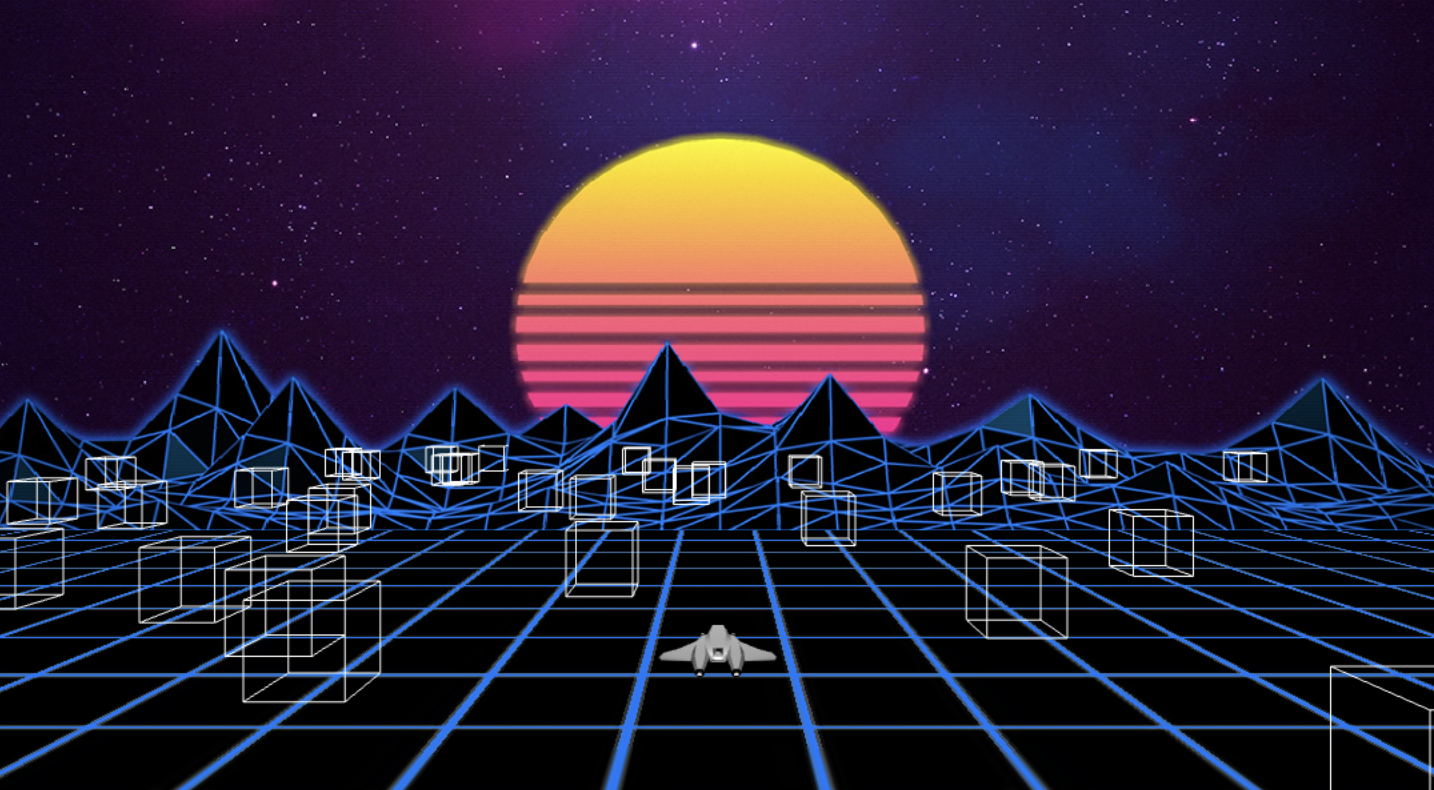
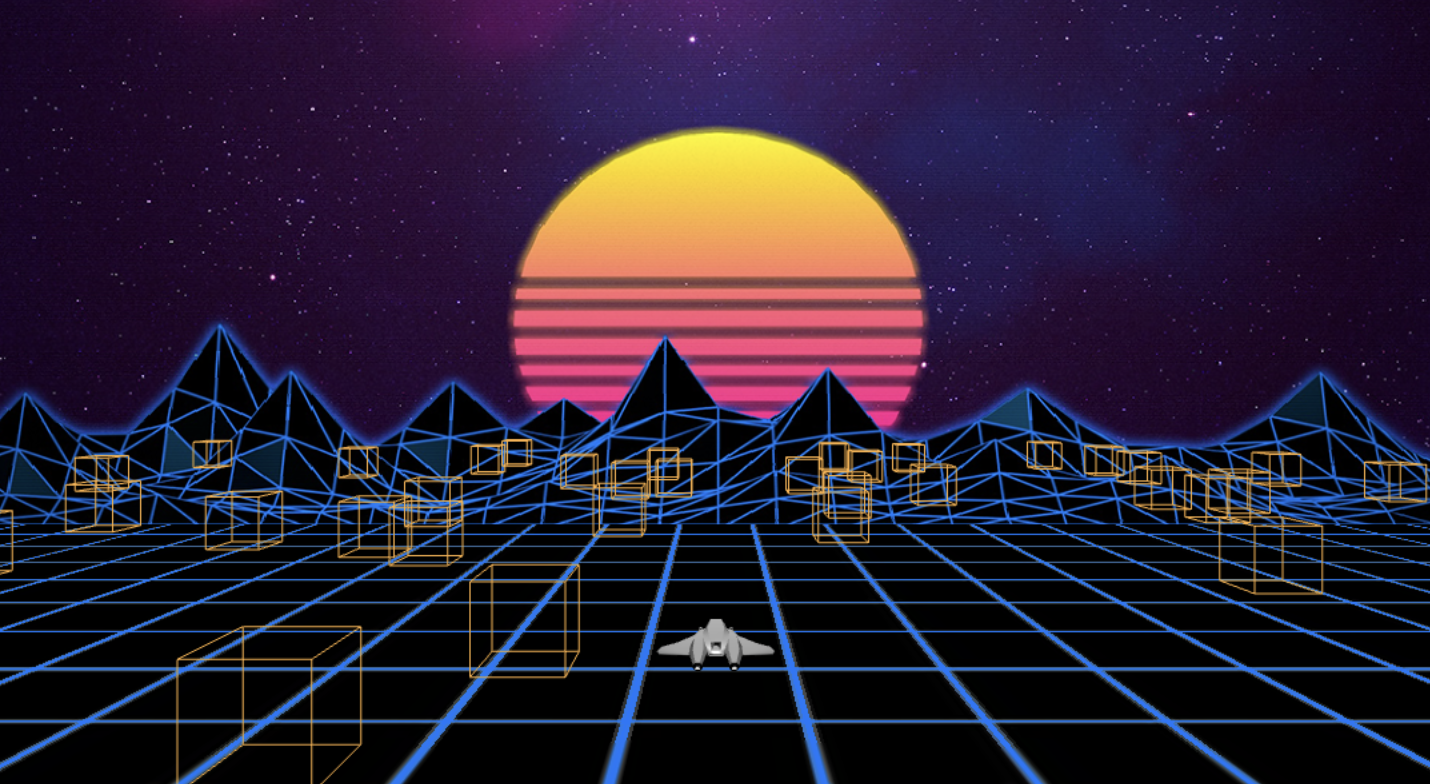
style fixes

diff --git a/cube-runner.js b/cube-runner.js
@@ -99,7 +99,7 @@ class Base_Scene extends Scene {
         '../assets/spaceship.obj'
       ),
       shield: new defs.Subdivision_Sphere(4),
-      outline: new Cube_Outline(hex_color('#ffffff')),
+      outline: new Cube_Outline(hex_color('#fdaf42')),
       green_outline: new Cube_Outline(hex_color('#00ff00')),
       floor: new Cube(),
       background: new defs.Grid_Patch(
@@ -225,7 +225,6 @@ export class CubeRunner extends Base_Scene {
       { name: 'Aneesh', score: 500 },
     ]
 
-
     this.hasShield = false; // Track if the player has collected a shield power-up
     this.shieldActive = false; // Track if the shield is currently active
     this.shield_duration = 2.5
@@ -286,49 +285,67 @@ export class CubeRunner extends Base_Scene {
 
     // Reset spawn timing
     this.lastSpawnTime = performance.now()
-
   }
 
   showHighScoreEntry() {
     const overlay = this.createOverlay();
 
     const title = document.createElement('h2');
-    title.textContent = 'Congratulations!';
+    title.textContent = 'CONGRATULATIONS!';
     overlay.modal.appendChild(title);
 
-    const scoreDisplay = document.createElement('p');
-    scoreDisplay.textContent = `You scored ${Math.round(this.current_score)} points! Enter your name:`;
+    const scoreDisplay = document.createElement('h3');
+    // scoreDisplay.fontSize = '18px';
+    scoreDisplay.textContent = `YOU SCORED ${Math.round(this.current_score)} POINTS! ENTER YOUR NAME:`;
     overlay.modal.appendChild(scoreDisplay);
 
     const nameInput = document.createElement('input');
     nameInput.type = 'text';
-    nameInput.placeholder = 'Your Name Here';
+    nameInput.placeholder = 'YOUR NAME HERE';
+    nameInput.style.fontFamily = 'Shapiro';
+    nameInput.style.fontSize = '18px';
+    nameInput.style.padding = '15px 15px'
+    nameInput.style.border = '3px solid black'
+    nameInput.style.borderRadius = '30px'
+    nameInput.style.width = '300px';
     overlay.modal.appendChild(nameInput);
 
+    const submitStyle = `padding: 5px 15px; font-size: 16px; margin: 5px; background-color: #333; color: white; border: 3px solid #333; border-radius: 5px;`;
+    const cancelStyle = `padding: 5px 15px; font-size: 16px; margin: 5px; color: #333; border: 3px solid #333; border-radius: 5px;`;
+    
+    // Create a new div to contain the buttons
+    const buttonsDiv = document.createElement('div');
+    buttonsDiv.style.paddingTop = '25px';
+    
     const submitButton = document.createElement('button');
-    submitButton.textContent = 'Submit';
+    submitButton.textContent = 'SUBMIT';
+    submitButton.setAttribute('style', submitStyle);
     submitButton.onclick = () => {
       const userName = nameInput.value.trim();
-      if(userName) {
+      if (userName) {
         // Assuming a method to save the score
         this.saveScore(userName, this.current_score);
         document.body.removeChild(overlay.container);
         this.showLeaderboard(); // Show the leaderboard after submitting
       }
     };
-    overlay.modal.appendChild(submitButton);
-
+    buttonsDiv.appendChild(submitButton); // Append submit button to the div
+    
     const cancelButton = document.createElement('button');
-    cancelButton.textContent = 'Cancel';
+    cancelButton.textContent = 'CANCEL';
+    cancelButton.setAttribute('style', cancelStyle);
     cancelButton.onclick = () => {
       document.body.removeChild(overlay.container);
     };
-    overlay.modal.appendChild(cancelButton);
+    buttonsDiv.appendChild(cancelButton); // Append cancel button to the div
+    
+    overlay.modal.appendChild(buttonsDiv); // Append the div containing buttons to the overlay modal
+    
 
     document.body.appendChild(overlay.container);
   }
 
-// Step 2: Display the Leaderboard
+  // Step 2: Display the Leaderboard
   showLeaderboard() {
     const overlay = this.createOverlay();
     const title = document.createElement('h2');
@@ -346,8 +363,10 @@ export class CubeRunner extends Base_Scene {
     });
     overlay.modal.appendChild(list);
 
+    const closeStyle = `padding: 5px 15px; font-size: 16px; margin: 5px; background-color: #333; color: white; border: 3px solid #333; border-radius: 5px;`;
     const closeButton = document.createElement('button');
     closeButton.textContent = 'Close';
+    closeButton.setAttribute('style', closeStyle);
     closeButton.onclick = () => {
       document.body.removeChild(overlay.container);
     };
@@ -356,7 +375,7 @@ export class CubeRunner extends Base_Scene {
     document.body.appendChild(overlay.container);
   }
 
-// Utility to create overlay and modal
+  // Utility to create overlay and modal
   createOverlay() {
     const container = document.createElement('div');
     container.style.position = 'fixed';
@@ -405,11 +424,16 @@ export class CubeRunner extends Base_Scene {
       // Create the container for the power-up display if it doesn't already exist
       this.powerUpContainer = document.createElement('div');
       this.powerUpContainer.style.position = 'absolute';
-      this.powerUpContainer.style.left = '240px'; // Position at the bottom-left corner
-      this.powerUpContainer.style.bottom = '190px';
+      this.powerUpContainer.style.left = '20px'; // Position at the bottom-left corner
+      this.powerUpContainer.style.top = '475px';
       this.powerUpContainer.style.width = '50px'; // Adjust size as needed
       this.powerUpContainer.style.height = '50px';
-      document.body.appendChild(this.powerUpContainer);
+      // document.body.appendChild(this.powerUpContainer);
+
+      const canvasElement =
+        document.querySelector('#main-canvas') // Select the main canvas element
+      canvasElement.style.position = 'relative' // Ensure the canvas is positioned to anchor the score
+      canvasElement.appendChild(this.powerUpContainer)
 
       // Create the image element for the shield icon
       this.shieldIcon = document.createElement('img');
@@ -420,17 +444,17 @@ export class CubeRunner extends Base_Scene {
       this.powerUpContainer.appendChild(this.shieldIcon);
 
       // Create the text element for the powerup indication
-      this.powerUpText = document.createElement('div');
-      this.powerUpText.innerHTML = 'Activate   Shield'; // Use innerHTML to include HTML content
-      this.powerUpText.style.position = 'absolute';
-      this.powerUpText.style.bottom = '50px'; // Adjust based on your layout
-      this.powerUpText.style.left = '15px'; // Adjust based on your layout
+      // this.powerUpText = document.createElement('div');
+      // this.powerUpText.innerHTML = 'Activate   Shield'; // Use innerHTML to include HTML content
+      // this.powerUpText.style.position = 'absolute';
+      // this.powerUpText.style.bottom = '50px'; // Adjust based on your layout
+      // this.powerUpText.style.left = '15px'; // Adjust based on your layout
 
-      this.powerUpText.style.width = '100%';
-      this.powerUpText.style.textAlign = 'center';
-      this.powerUpText.style.color = 'red'; // Adjust based on your theme
-      this.powerUpText.style.display = 'none'; // Initially hidden
-      this.powerUpContainer.appendChild(this.powerUpText);
+      // this.powerUpText.style.width = '100%';
+      // this.powerUpText.style.textAlign = 'center';
+      // this.powerUpText.style.color = 'red'; // Adjust based on your theme
+      // this.powerUpText.style.display = 'none'; // Initially hidden
+      // this.powerUpContainer.appendChild(this.powerUpText);
     }
 
     // Ensure the power-up display responds to game state changes
@@ -441,7 +465,7 @@ export class CubeRunner extends Base_Scene {
       // Only show the power-up display if the game is running and the player has a shield
       this.powerUpContainer.style.display = this.hasShield ? 'block' : 'none';
       this.shieldIcon.style.display = this.hasShield ? 'block' : 'none';
-      this.powerUpText.style.display = this.hasShield ? 'block' : 'none';
+      // this.powerUpText.style.display = this.hasShield ? 'block' : 'none';
     }
 
   }
@@ -700,6 +724,15 @@ export class CubeRunner extends Base_Scene {
       }
     )
 
+    this.key_triggered_button("Activate Shield", [" "], () => {
+      if (this.hasShield && !this.shieldActive) {
+        this.shieldActive = true;
+        this.shield_activate_time = performance.now() / 1000; // Current time in seconds
+        this.hasShield = false; // Use up the shield power-up
+        this.updatePowerUpDisplay(); // Ensure the UI is updated
+      }
+    });
+
     this.key_triggered_button('Pause', ['p'], () => {
       this.is_paused = !this.is_paused
     })
@@ -711,16 +744,6 @@ export class CubeRunner extends Base_Scene {
         this.play_music = !this.play_music
       }
     )
-
-    this.key_triggered_button("Activate Shield", [" "], () => {
-      if (this.hasShield && !this.shieldActive) {
-        this.shieldActive = true;
-        this.shield_activate_time = performance.now() / 1000; // Current time in seconds
-        this.hasShield = false; // Use up the shield power-up
-        this.updatePowerUpDisplay(); // Ensure the UI is updated
-
-      }
-    });
   }
 
   display(context, program_state) {
@@ -1276,7 +1299,6 @@ export class CubeRunner extends Base_Scene {
     this.current_score = 0 // Optionally reset the current score, or you might want to keep the score until a new game starts.
     // Reset the high score.
     this.high_score = 0
-    this.theme = 'Basic'
 
     // Hide any game-specific UI elements that should not be visible in the main menu.
     if (this.game_over_container) {
@@ -1302,6 +1324,8 @@ export class CubeRunner extends Base_Scene {
     if (this.themeImage) {
       this.themeImage.style.display = 'block'
     }
+    console.log(this.difficulty)
+    console.log(this.theme)
     if (this.music) {
       // this.music.src = 'audio/lastsurprise.mp3'
       this.music.pause()
